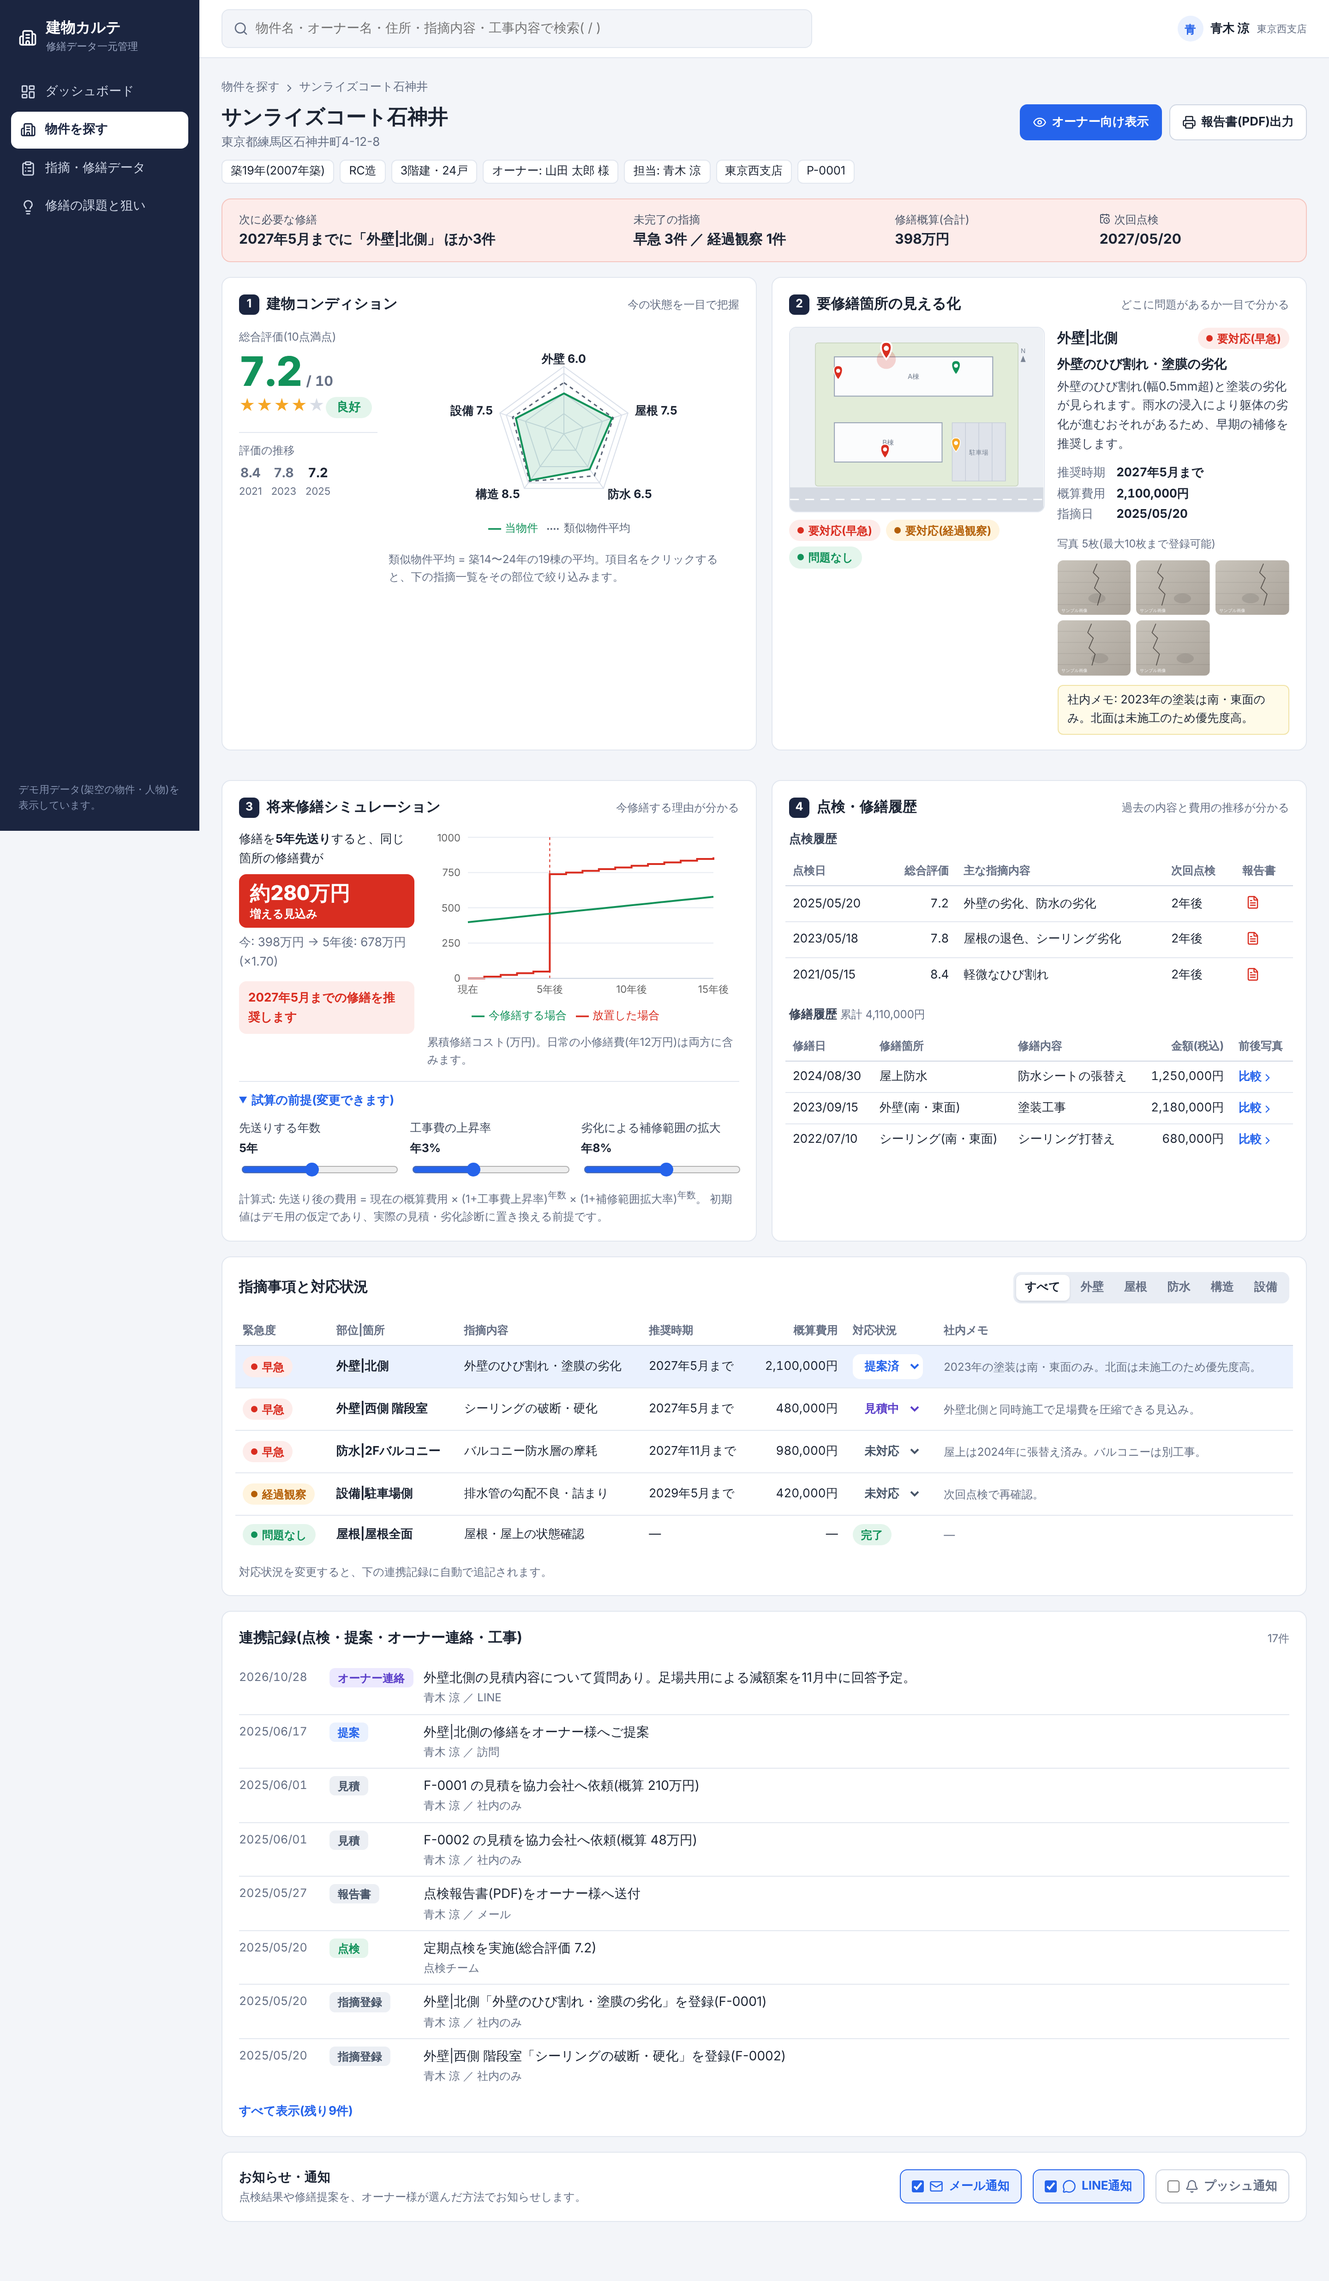
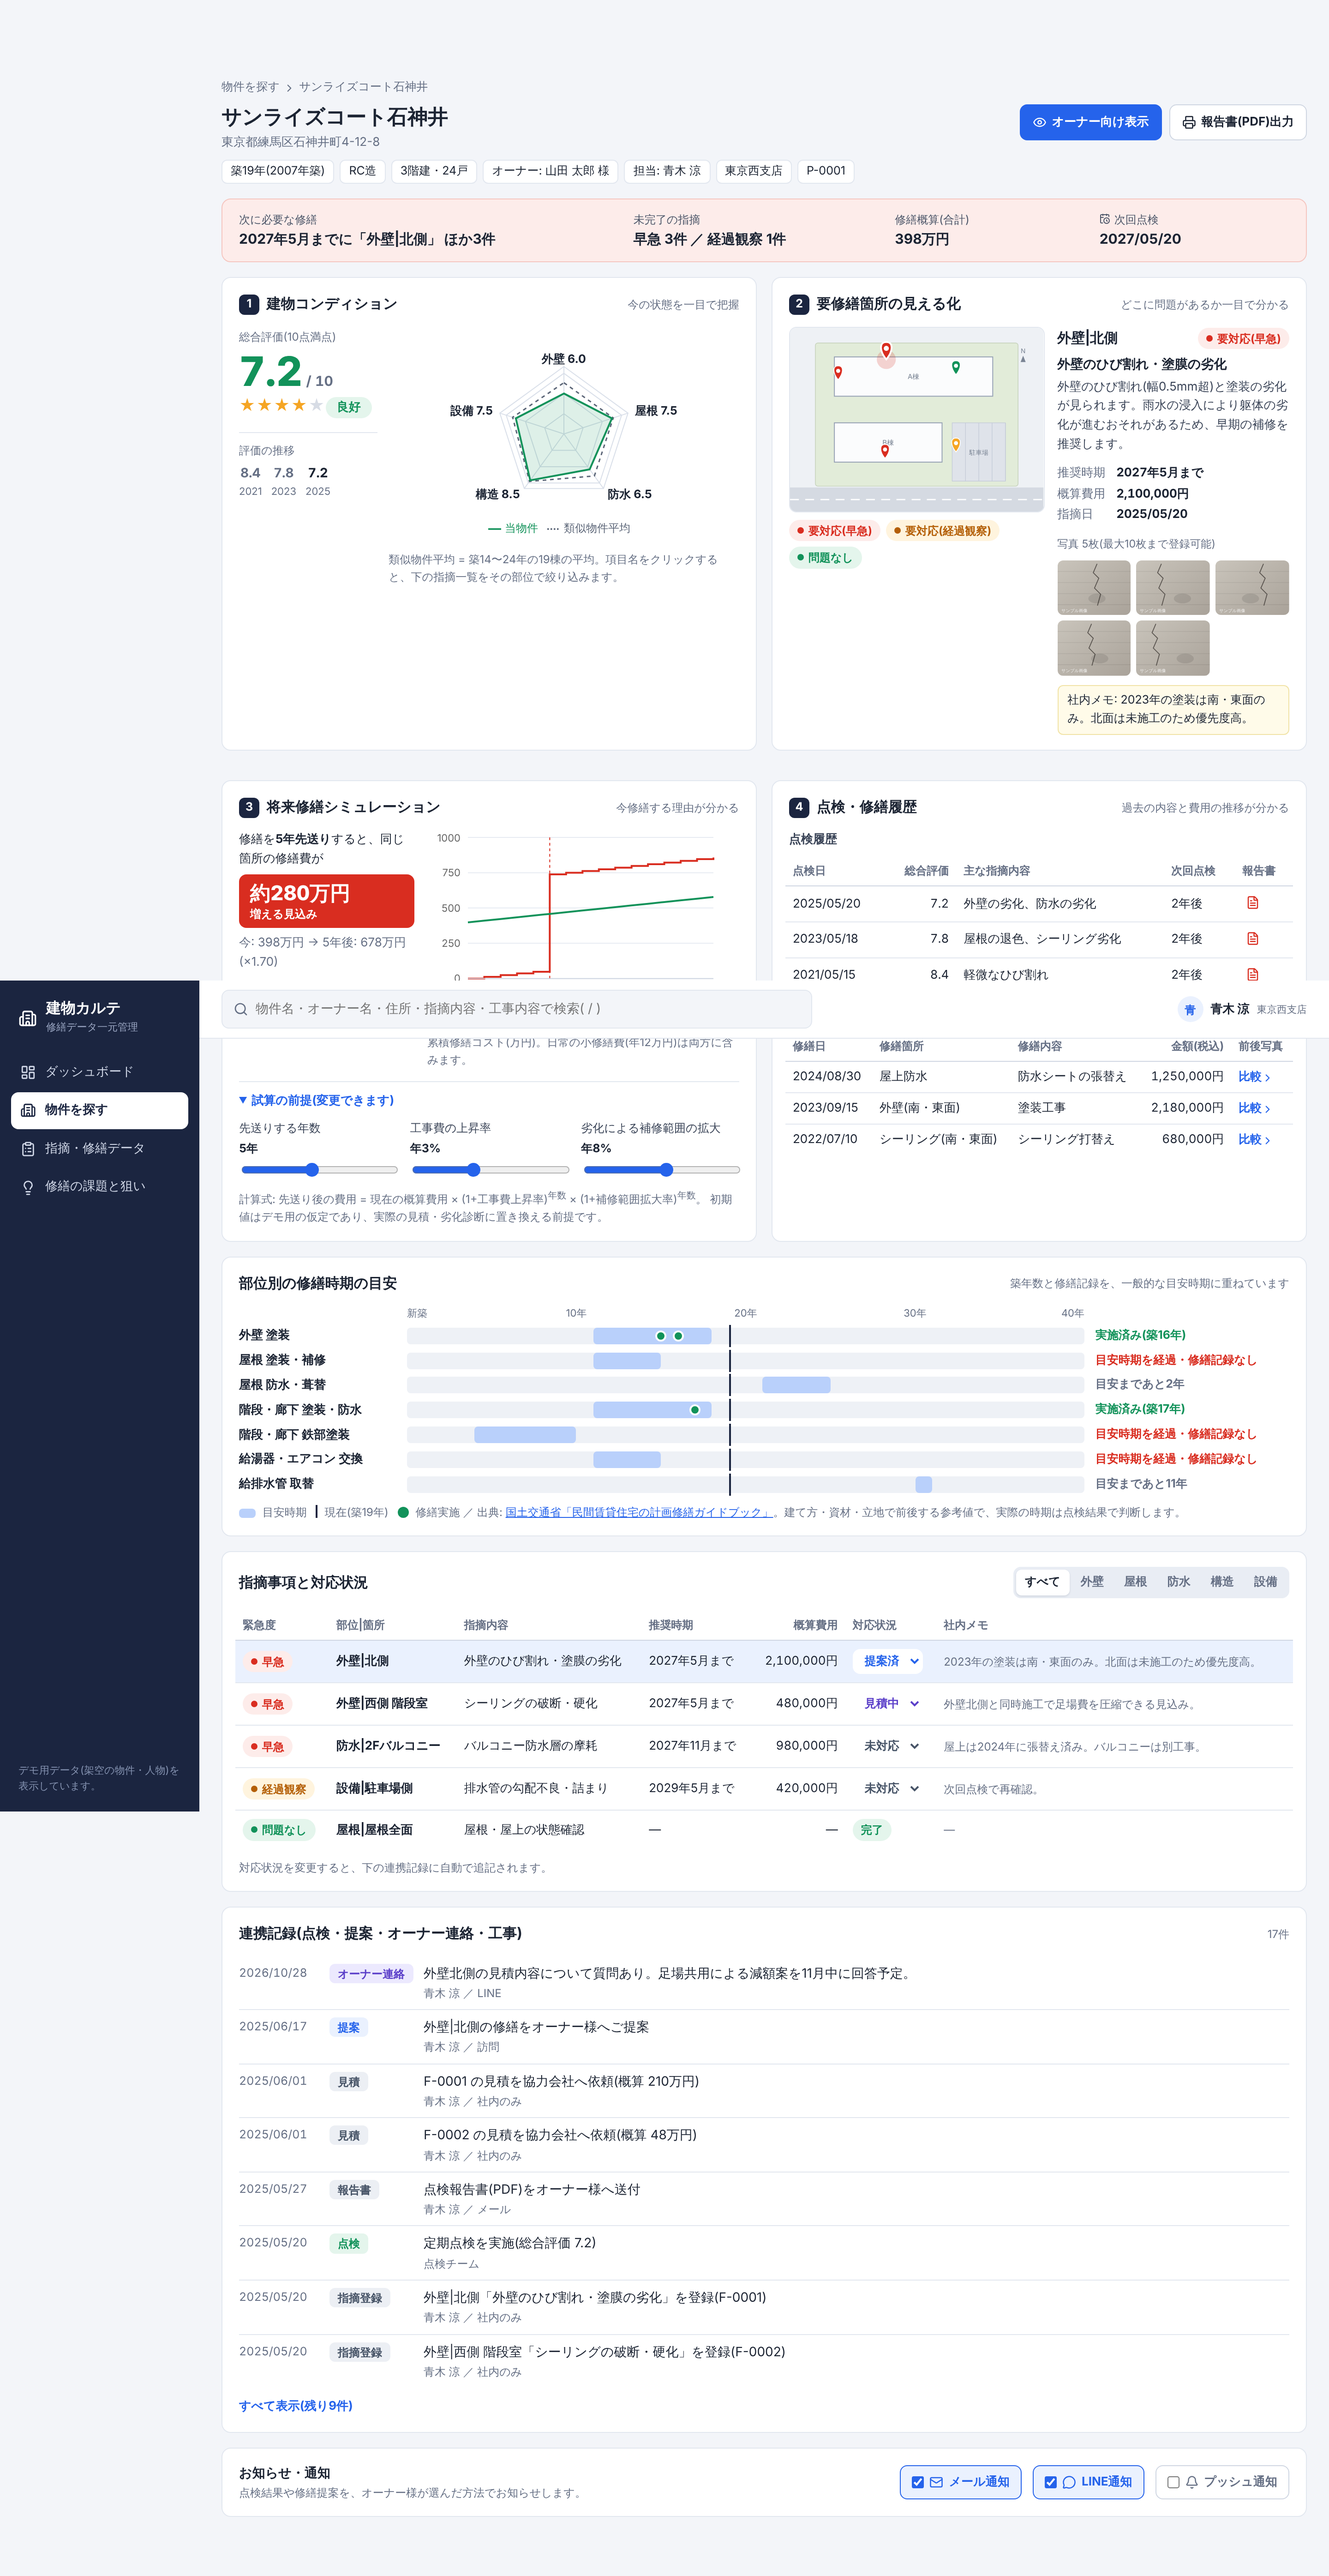
Add repair-timing guide card and expand researched issues page
Overlay building age and repair records on per-part guideline windows
(MLIT guidebook), and update the issues page with verified figures
and sources from additional research.

Claude-Session: https://claude.ai/code/session_01WjLV5WWw8GjM92nXAWc7UL

diff --git a/karte/src/pages/Insights.tsx b/karte/src/pages/Insights.tsx
@@ -15,8 +15,24 @@ const SOURCES = [
     url: 'https://www.mlit.go.jp/jutakukentiku/house/content/001750538.pdf',
   },
   {
-    label: '日本建設業連合会「建設資材高騰・労務費の上昇等の現状」(2026年7月版)',
+    label: '日本建設業連合会 建設資材・労務費の資料(2026年7月版)',
     url: 'https://nikkenren.com/sougou/notice/pdf/Materialspamph_quarter_202607.pdf',
+  },
+  {
+    label: '国土交通省「民間賃貸住宅の大規模修繕等に対する意識の向上に関する調査検討報告書」(2017年3月)',
+    url: 'https://www.mlit.go.jp/common/001397674.pdf',
+  },
+  {
+    label: '国土交通省「賃貸住宅の計画的な維持管理及び性能向上の推進について」(2019年3月)',
+    url: 'https://www.mlit.go.jp/common/001285578.pdf',
+  },
+  {
+    label: '国土交通省「民間賃貸住宅の計画修繕ガイドブック」',
+    url: 'https://www.mlit.go.jp/common/001231406.pdf',
+  },
+  {
+    label: '国土交通省 賃貸住宅管理業者等への立入検査結果(令和7年度)',
+    url: 'https://www.mlit.go.jp/report/press/content/002004977.pdf',
   },
 ];
 
@@ -34,26 +50,40 @@ const ISSUES: Issue[] = [
     sources: [0],
   },
   {
-    title: '管理会社側に提案のノウハウが足りない',
+    title: '管理会社からの提案が、修繕実施の分かれ目になっている',
     facts: [
-      '計画修繕を実施していない管理業者が全体の約2割。',
-      'その理由の約4割が「提案したくてもノウハウがない」、約3割が「必要なときに修繕すれば十分」。',
+      '管理を委託している個人家主が修繕しない理由の最多は「管理会社等からの提案がない」(36.6%)。',
+      '長期修繕計画を作成している家主は22.8%。作成している家主の修繕実施率は94.1%。',
+      '計画修繕を実施していない管理業者の約4割が「提案したくてもノウハウがない」と回答。',
     ],
-    answer: '担当者の経験に頼らず、類似物件との比較と費用試算を自動で用意し、誰でも同じ根拠で説明できるようにする。',
+    answer: '類似物件との比較・修繕時期の目安・費用試算を自動で用意し、担当者の経験に頼らず同じ根拠で提案できるようにする。',
     to: '/properties/P-0001',
     toLabel: '建物カルテを見る',
-    sources: [0],
+    sources: [2, 0],
   },
   {
-    title: '先送りするほど工事費が上がる',
+    title: '修繕が必要な時期が、部位ごとに違って把握しづらい',
     facts: [
+      '一般的な目安は、外壁塗装が11〜18年目、屋根の塗装・補修が11〜15年目、防水・葺替が21〜25年目。',
+      '鉄部塗装は4〜10年目、給湯器・エアコンの交換は11〜15年目、給排水管の取替は30年目。',
+      '目安は建て方・資材・立地で前後するため、点検結果と合わせて判断する必要がある。',
+    ],
+    answer: '築年数と修繕記録を部位ごとの目安時期に重ね、「目安を過ぎているのに記録がない」部位を一目で分かるようにする。',
+    to: '/properties/P-0001',
+    toLabel: '修繕時期の目安を見る',
+    sources: [4],
+  },
+  {
+    title: '先送りは収益性を下げ、工事費も上がり続けている',
+    facts: [
+      '国交省の試算では、実質利回りは木造で計画修繕あり2.78%・なし2.13%、RC造であり2.53%・なし1.90%。',
       '建設資材物価は2021年6月比で5年間に39%上昇、直近2年でも9%上昇。',
-      '労務費を含めた全建設コストは、直近2年で7.3〜8.2%上昇(日建連の試算)。',
+      '「先送りで工事費が何割増えるか」の公的な実測値は見つかっておらず、画面の試算は仮定に基づく。',
     ],
     answer: '「今修繕する場合」と「放置した場合」の累積コストを並べ、前提の数値を画面上で変えて確かめられるようにする。',
     to: '/properties/P-0001',
     toLabel: '将来修繕シミュレーションを見る',
-    sources: [1],
+    sources: [3, 1],
   },
   {
     title: '修繕は入居率・家賃に直結する',
@@ -67,12 +97,24 @@ const ISSUES: Issue[] = [
     sources: [0],
   },
   {
+    title: 'オーナーへの報告が抜けやすく、法令上のリスクにもなる',
+    facts: [
+      '管理を委託していても、修繕の実施状況を把握していない家主が12.3%いる。',
+      '令和7年度の国交省の立入検査では168社中118社が是正指導を受け、定期報告義務の違反は17件。',
+      '修繕履歴は少なくとも「実施期間・工事内容・金額・施工業者名」を記録することが求められている。',
+    ],
+    answer: '点検・提案・連絡・工事を物件ごとに1本の時系列で残し、オーナーに何を伝えたかを後から確認できるようにする。',
+    to: '/properties/P-0001',
+    toLabel: '連携記録を見る',
+    sources: [2, 5, 0],
+  },
+  {
     title: '情報が分散し、対応が止まっても気づけない',
     facts: [
       '点検報告書・見積・オーナーとのやり取りが別々の場所にあると、指摘が「誰のボールか」分からなくなる。',
-      'この項目は公的な統計ではなく、プロダクトの前提としている仮説です(社内ヒアリングで検証が必要)。',
+      'この項目を数値で示す公的・業界団体の調査は見つかっていません。プロダクトの前提としている仮説で、社内ヒアリングでの検証が必要です。',
     ],
-    answer: '指摘ごとに対応状況を持たせ、停滞日数と推奨時期で並べる。物件ごとに点検・提案・連絡・工事を1本の時系列に残す。',
+    answer: '指摘ごとに対応状況を持たせ、停滞日数と推奨時期で並べる。',
     to: '/',
     toLabel: 'ダッシュボードを見る',
     sources: [],
@@ -105,7 +147,7 @@ export default function Insights() {
                   出典:{' '}
                   {it.sources.map((s) => (
                     <a key={s} href={SOURCES[s].url} target="_blank" rel="noreferrer">
-                      {SOURCES[s].label}
+                      {SOURCES[s].label}{' '}
                     </a>
                   ))}
                 </p>

diff --git a/karte/src/Cycle.tsx b/karte/src/Cycle.tsx
@@ -1,0 +1,81 @@
+import { type Part, type Property, type Repair } from './data';
+
+/**
+ * 主な部位の修繕目安(築年数)。
+ * 出典: 国土交通省「民間賃貸住宅の計画修繕ガイドブック」。建て方・資材・立地で前後する参考値。
+ */
+export const CYCLE_SOURCE = {
+  label: '国土交通省「民間賃貸住宅の計画修繕ガイドブック」',
+  url: 'https://www.mlit.go.jp/common/001231406.pdf',
+};
+const GUIDE: { part: Part; label: string; from: number; to: number }[] = [
+  { part: '外壁', label: '外壁 塗装', from: 11, to: 18 },
+  { part: '屋根', label: '屋根 塗装・補修', from: 11, to: 15 },
+  { part: '屋根', label: '屋根 防水・葺替', from: 21, to: 25 },
+  { part: '防水', label: '階段・廊下 塗装・防水', from: 11, to: 18 },
+  { part: '構造', label: '階段・廊下 鉄部塗装', from: 4, to: 10 },
+  { part: '設備', label: '給湯器・エアコン 交換', from: 11, to: 15 },
+  { part: '設備', label: '給排水管 取替', from: 30, to: 30 },
+];
+const MAX = 40;
+
+export function CycleCard({ p, repairs, ownerView }: { p: Property; repairs: Repair[]; ownerView: boolean }) {
+  const pct = (y: number) => `${(Math.min(y, MAX) / MAX) * 100}%`;
+  return (
+    <section className="card">
+      <header>
+        <h2>部位別の修繕時期の目安</h2>
+        <span className="hint">築年数と修繕記録を、一般的な目安時期に重ねています</span>
+      </header>
+      <div className="cycle">
+        <div className="cycle-row cycle-axis">
+          <span />
+          <div className="cycle-track bare">
+            {[0, 10, 20, 30, 40].map((y) => (
+              <i key={y} style={{ left: pct(y) }}>
+                {y === 0 ? '新築' : `${y}年`}
+              </i>
+            ))}
+          </div>
+          <span />
+        </div>
+        {GUIDE.map((g) => {
+          const done = repairs
+            .filter((r) => r.part === g.part)
+            .map((r) => Number(r.date.slice(0, 4)) - p.builtYear)
+            .filter((age) => age >= g.from - 2);
+          const state =
+            done.length > 0
+              ? { cls: 'ok', text: `実施済み(築${Math.max(...done)}年)` }
+              : p.age < g.from
+                ? { cls: 'pre', text: `目安まであと${g.from - p.age}年` }
+                : p.age <= g.to
+                  ? { cls: 'in', text: '目安時期に入っています' }
+                  : { cls: 'over', text: ownerView ? '目安時期を過ぎています' : '目安時期を経過・修繕記録なし' };
+          return (
+            <div className="cycle-row" key={g.label}>
+              <span className="cycle-label">{g.label}</span>
+              <div className="cycle-track">
+                <span className="cycle-band" style={{ left: pct(g.from), width: `${((Math.max(g.to - g.from, 1)) / MAX) * 100}%` }} />
+                {done.map((age, i) => (
+                  <span key={i} className="cycle-done" style={{ left: pct(age) }} title={`築${age}年に修繕`} />
+                ))}
+                <span className="cycle-now" style={{ left: pct(p.age) }} />
+              </div>
+              <span className={`cycle-state ${state.cls}`}>{state.text}</span>
+            </div>
+          );
+        })}
+      </div>
+      <p className="note cycle-legend">
+        <span className="cycle-band inline" /> 目安時期
+        <span className="cycle-now inline" /> 現在(築{p.age}年)
+        <span className="cycle-done inline" /> 修繕実施 ／ 出典:{' '}
+        <a href={CYCLE_SOURCE.url} target="_blank" rel="noreferrer">
+          {CYCLE_SOURCE.label}
+        </a>
+        。建て方・資材・立地で前後する参考値で、実際の時期は点検結果で判断します。
+      </p>
+    </section>
+  );
+}

diff --git a/karte/src/styles.css b/karte/src/styles.css
@@ -335,3 +335,30 @@ a.kpi:hover { border-color: var(--blue); }
   .karte-grid { grid-template-columns: 1fr 1fr; gap: 8px; }
   .memo { display: none; }
 }
+
+/* ---------- 修繕時期の目安 ---------- */
+.cycle { display: grid; gap: 6px; }
+.cycle-row { display: grid; grid-template-columns: 170px minmax(0, 1fr) 210px; gap: 12px; align-items: center; }
+.cycle-label { font-weight: 700; font-size: 13px; }
+.cycle-track { position: relative; height: 18px; background: #eef1f6; border-radius: 4px; }
+.cycle-track.bare { background: none; height: 16px; }
+.cycle-track.bare i { position: absolute; transform: translateX(-50%); font-style: normal; font-size: 11px; color: var(--muted); white-space: nowrap; }
+.cycle-track.bare i:first-child { transform: none; }
+.cycle-track.bare i:last-child { transform: translateX(-100%); }
+.cycle-band { position: absolute; top: 0; bottom: 0; background: #b9d0fb; border-radius: 4px; }
+.cycle-now { position: absolute; top: -3px; bottom: -3px; width: 2px; background: var(--navy); }
+.cycle-done { position: absolute; top: 3px; width: 12px; height: 12px; margin-left: -6px; border-radius: 50%; background: var(--green); border: 2px solid #fff; }
+.cycle-state { font-size: 12.5px; font-weight: 700; }
+.cycle-state.ok { color: var(--green); }
+.cycle-state.pre { color: var(--muted); }
+.cycle-state.in { color: var(--amber); }
+.cycle-state.over { color: var(--red); }
+.cycle-legend a { color: var(--blue); text-decoration: underline; }
+.cycle-band.inline, .cycle-now.inline, .cycle-done.inline { position: static; display: inline-block; vertical-align: -2px; margin: 0 4px 0 10px; }
+.cycle-band.inline { width: 18px; height: 10px; margin-left: 0; }
+.cycle-now.inline { width: 2px; height: 14px; }
+.cycle-done.inline { width: 12px; height: 12px; border: 0; }
+@media (max-width: 760px) {
+  .cycle-row { grid-template-columns: minmax(0, 1fr); gap: 2px; margin-bottom: 8px; }
+  .cycle-axis { display: none; }
+}

diff --git a/karte/src/pages/PropertyDetail.tsx b/karte/src/pages/PropertyDetail.tsx
@@ -38,6 +38,7 @@ import {
 } from '../data';
 import { DEFAULT_SIM, openCost, simulate, type SimParams } from '../sim';
 import { Empty, Photo, SeverityBadge, Stars, StatusBadge, useStore } from '../ui';
+import { CycleCard } from '../Cycle';
 
 const PIN_COLOR = { urgent: '#d92d20', watch: '#f5a524', ok: '#12925a' } as const;
 
@@ -463,6 +464,8 @@ export default function PropertyDetail() {
           )}
         </section>
       </div>
+
+      <CycleCard p={p} repairs={reps} ownerView={ownerView} />
 
       {/* 指摘事項一覧 */}
       <section className="card">
